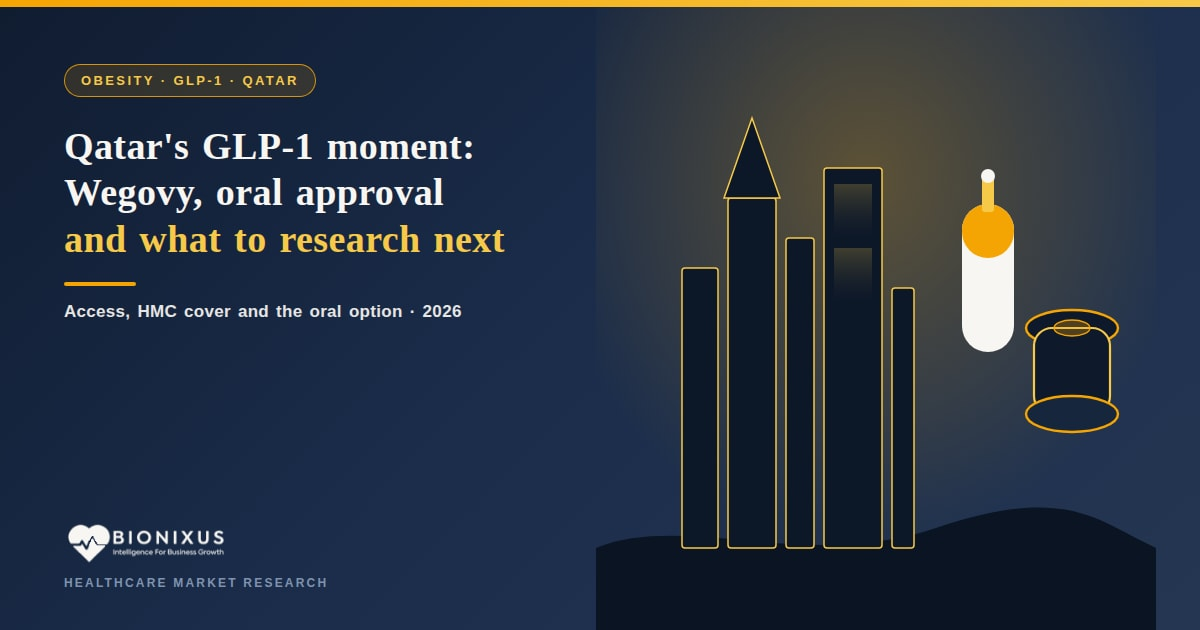
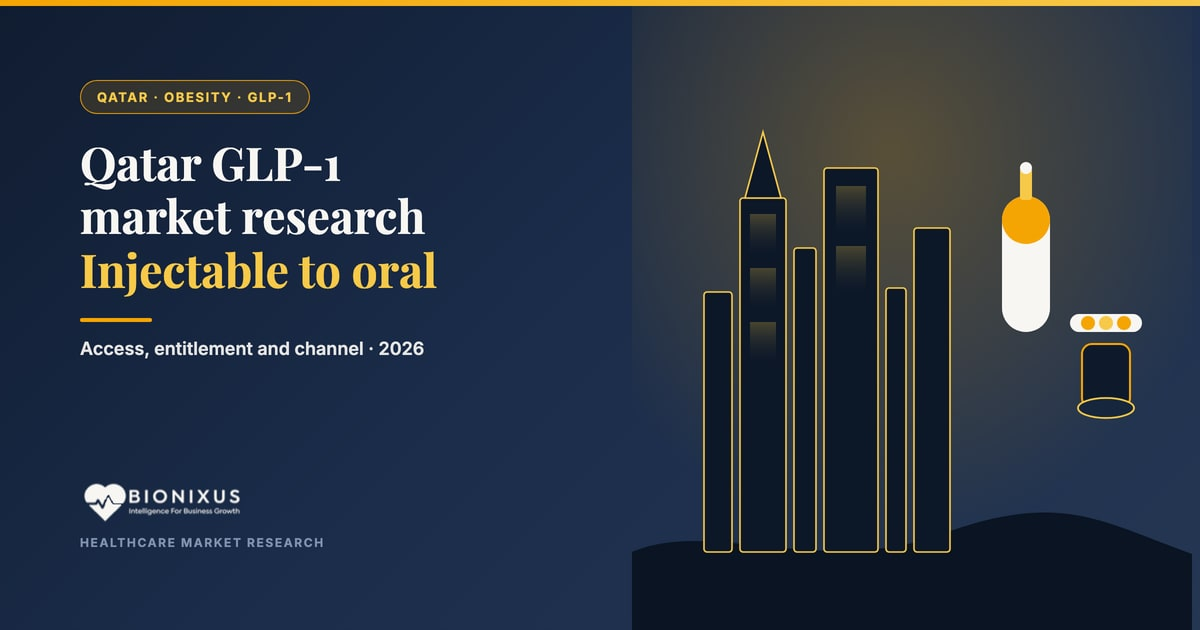
Fix Sanity publish scripts for this vite-node and refresh the Qatar obesity OG cover.
vite-node here rejects --eval, so the feasibility, market-entry, and Dubai scripts now load article TypeScript from a temp file the same way the GLP-1 publisher already does.

diff --git a/src/data/blog-qatar-obesity-glp1-research.ts b/src/data/blog-qatar-obesity-glp1-research.ts
@@ -31,7 +31,7 @@ export const QATAR_OBESITY_GLP1_AUTHOR_PROFILE_URL: string | undefined = undefin
 export const QATAR_OBESITY_GLP1_COVER_IMAGE = '/images/blog/qatar-obesity-glp1-market-research-cover.jpg';
 
 export const QATAR_OBESITY_GLP1_COVER_IMAGE_ALT =
-  'BioNixus navy and gold cover: Qatar obesity GLP-1 market research after Wegovy and oral GLP-1 approval, 2026';
+  'BioNixus navy and gold cover for Qatar obesity GLP-1 market research, 2026';
 
 export const QATAR_OBESITY_GLP1_HERO_IMAGE = '/images/blog/qatar-obesity-glp1-market-research-hero.jpg';
 
